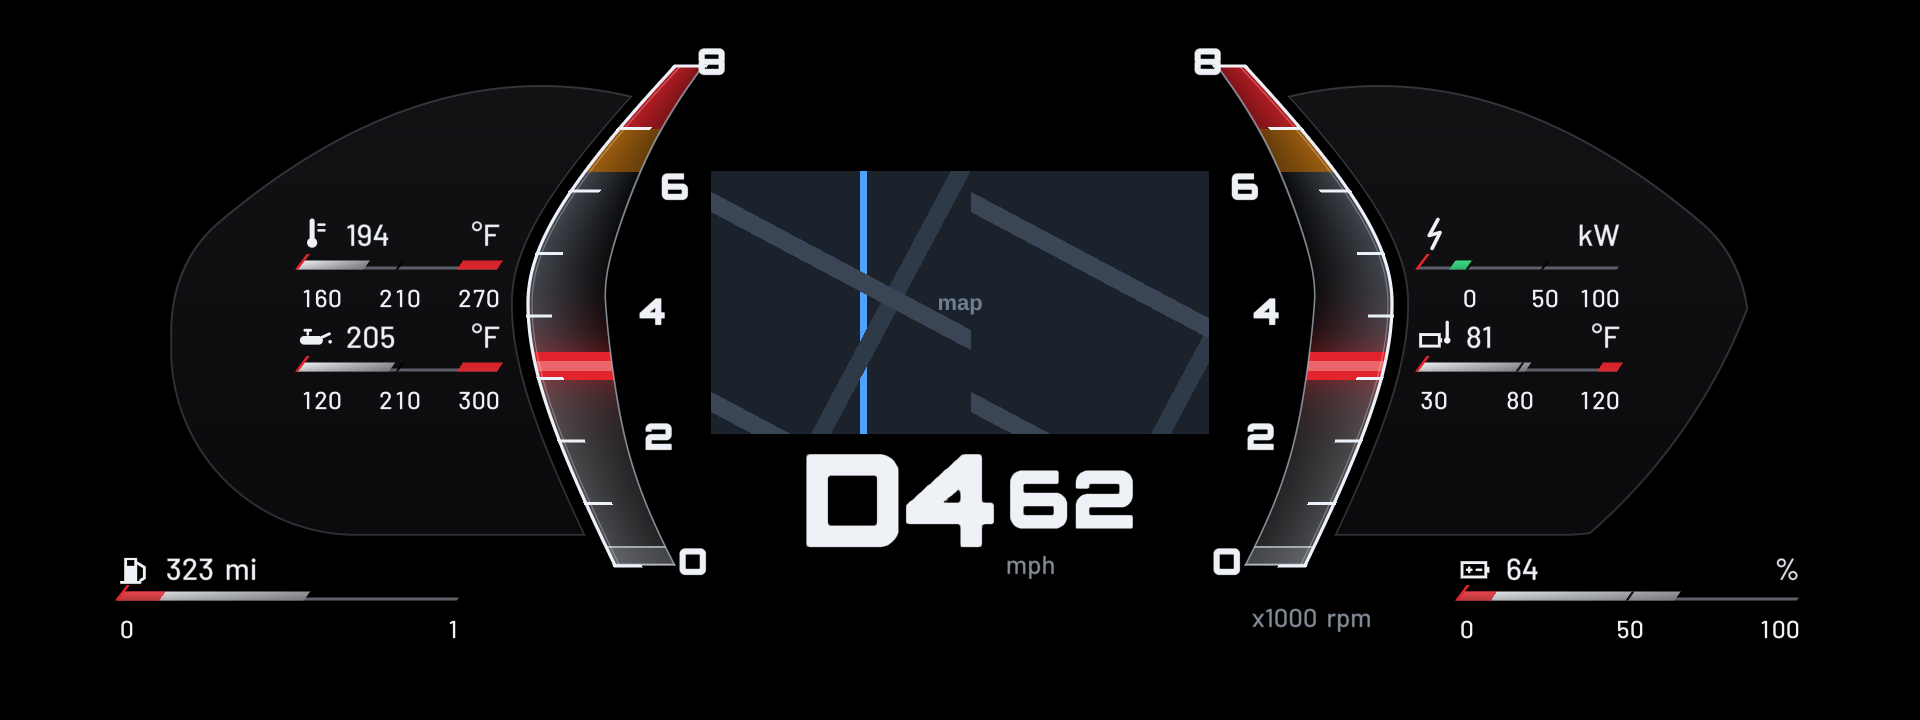
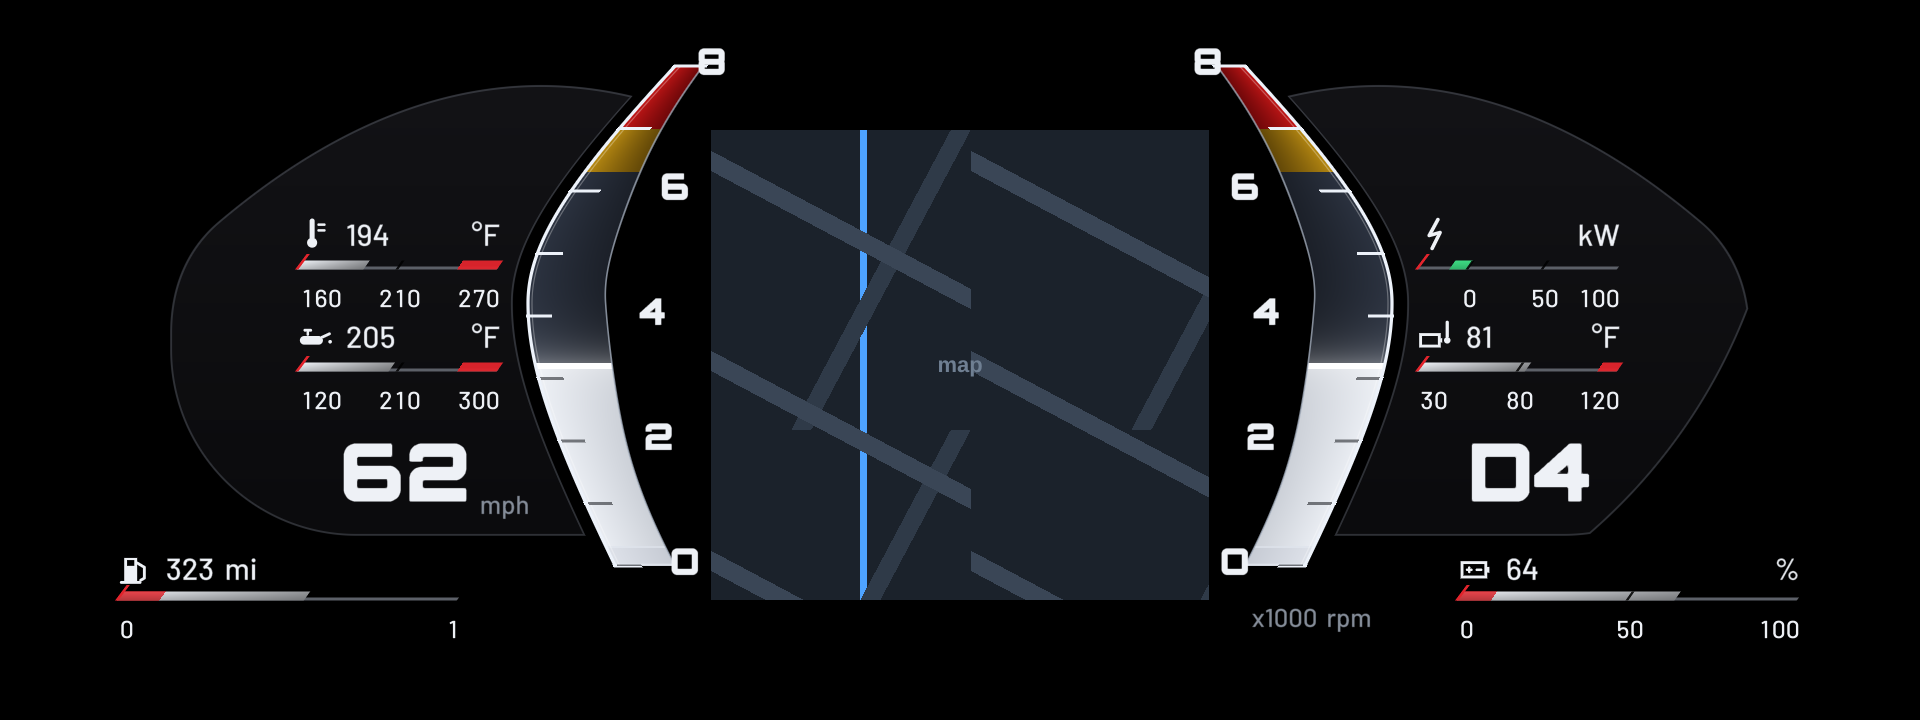
Layouts 0.50.0: ID7 M's map window taller, the speed and gear in the cards
With the map, ID7 M's window runs between the blades from under the
camera's cowl to the foot of the map area (711, 130, 498 x 470): the
speed sits under the left card's gauges and the gear under the right
one's, the same size. The blades' 0 moves out clear of the window.

Claude-Session: https://claude.ai/code/session_01QXViLhVqF9rtKtBBVyCzXw

diff --git a/apps/akakingj_cluster_layouts/layout_m.js b/apps/akakingj_cluster_layouts/layout_m.js
@@ -9,7 +9,8 @@
  * Fitted to the G05: their time, fuel range, outside temperature and badge along the bottom left out (the car's own
  * strip shows them); the M stripes, the top numerals moved clear of the camera's cowl. With the Waze map their
  * window between the blades (the map drawn there, map_window.js) and their map-up places for the gear and speed; on
- * an M car (its KOMBI's two boxes in the middle) the gear and speed in those places too. Full screen without the
+ * an M car (its KOMBI's two boxes in the middle) the gear and speed in those places. With the map the window reaches
+ * from under the cowl to the foot of the map area, the speed in the left card and the gear in the right one. Full screen without the
  * car's strip the right-hand setup rows stand clear of the KOMBI's own gear box (above and below it).
  *
  * The gauges are the M8's flat bars, each temperature and the charge in figures too: in the cards the engine's
@@ -37,8 +38,9 @@ const isNum = C.isNum;
 const clamp01 = (v) => Math.max(0, Math.min(1, v));
 const RPM_MAX = 8000;   // the M8's scale: 0-8
 
-/* their map window ("hole" [705, 165, 510, 275], inset 6) */
-const WINDOW = { x: 711, y: 171, w: 498, h: 263 };
+/* the map window: between the blades (their "hole" [705, 165, 510, 275] inset 6, as wide), from under the camera's
+ * cowl to the foot of the car's map area, the gear and speed in the cards beside it */
+const WINDOW = { x: 711, y: 130, w: 498, h: 470 };
 /* their rev blades (tach_left / tach_right), each in a layer from just outside its outer edge (the right one clear of
  * the KOMBI's gear box, from x 1410) to the map window's edge */
 const BLADE = { x0: 515, w: 196, y: 36, h: 558, y0: 566, y8: 66, ym: 303, xm: 528, kTop: 1.0684, kBot: 0.5434, round: 135, wBot: 52, wTop: 17, wBend: 44 };
@@ -190,8 +192,9 @@ module.exports = {
             return i === 0 ? '' : String(Math.round((i - 1) * 100 / 3));
         };
         const numC = (i) => (t, d) => ({ color: [i === 0 && elec(d) ? t.regen : t.fg, 1], glow: [t.fg, 0] });
-        [[0, 693, 547], [1, 659, 422], [2, 653, 297], [3, 675, 172], [4, 712, 47]].forEach(([i, cx, y]) => {
-            const n = i * 2, w = i === 4 ? 30 : 60, top = i === 4 ? { visible: (d) => !elec(d) } : {};
+        // (with the map the 0's box narrower and out, clear of the window reaching down past it)
+        [[0, map ? 685 : 693, 547], [1, 659, 422], [2, 653, 297], [3, 675, 172], [4, 712, 47]].forEach(([i, cx, y]) => {
+            const n = i * 2, w = i === 4 ? 30 : i === 0 && map ? 44 : 60, top = i === 4 ? { visible: (d) => !elec(d) } : {};
             list.push(Object.assign(T('nl' + n, [cx - w / 2, y, w, 38], 'm_num', num(i), numC(i), 'center'), top),
                 Object.assign(T('nr' + n, [1920 - cx - w / 2, y, w, 38], 'm_num', num(i), numC(i), 'center'), top));
         });
@@ -207,7 +210,12 @@ module.exports = {
         const gearNum = (d) => C.gearText(d);
         const gearC = (t, d) => ({ color: [B.shiftNow(o, d) ? t.red : t.fg, 1], glow: [t.fg, 0] });
         if (!stock) {
-            if (map || mcar) {
+            if (map) {
+                // (under the cards' gauges, the same size: the speed left, the gear right)
+                list.push(T('speedDigits', [250, 440, 222, 82], 'm_speed', (d) => C.speedText(o, d), fg, 'right'),
+                    T('speedUnit', [480, 489, 100, 29], 'm_tiny', C.speedUnit(o), dim, 'left'),
+                    T('gear', [1400, 440, 260, 82], 'm_speed', gearNum, gearC, 'center'));
+            } else if (mcar) {
                 list.push(T('gear', [700, 450, 300, 117], 'm_gear', gearNum, gearC, 'right'),
                     T('speedDigits', [1006, 467, 203, 82], 'm_speed', (d) => C.speedText(o, d), fg, 'left'),
                     T('speedUnit', [1006, 549, 108, 29], 'm_tiny', C.speedUnit(o), dim, 'left'));

diff --git a/apps/akakingj_cluster_layouts/README.md b/apps/akakingj_cluster_layouts/README.md
@@ -21,7 +21,8 @@ in the car's map slot under the layout, seen through the window with the cluster
 0.21.0. (Its renderer, cluster-render 0.6.x, can host a target in a scene drawn from a RAMSES file, which a layout of
 shaders doesn't have yet.)
 
-Apart from ID7 M and ID8 M (their own windows), the layouts leave the middle of the car's map area open, x 592-1338
+ID7 M's map window runs between its blades from under the camera's cowl to the foot of the map area, the speed in its
+left card and the gear in its right one. Apart from ID7 M and ID8 M (their own windows), the layouts leave the middle of the car's map area open, x 592-1338
 between the cluster's own fins, with its speed readout at the left edge covered: the stock map or centre shows there
 without the fins, "km/h", the speed limit sign or "1/min" round it.
 

diff --git a/PERSONAL.md b/PERSONAL.md
@@ -272,6 +272,8 @@ the car, then moved to `main` (in the fork they were `personal-kr` / `personal-k
   middle of the map area open (layout_common.MAP_VIEW, x 592-1338, y 120-600; Waze on cluster's window too) and
   covers the cluster's own speed readout at its left edge (STOCK_SPEED): the stock fins, "km/h", speed limit sign
   and "1/min" no longer show cut off at the window's edges.
+  ID7 M with the map: its window reaches from under the camera's cowl to the foot of the map area (711, 130,
+  498 x 470, was 263 high), the speed in the left card and the gear in the right one, under their gauges.
 
 ## Demo
 `cluster_demo.bat` (Windows) or `node tools/cluster_demo.js`.
